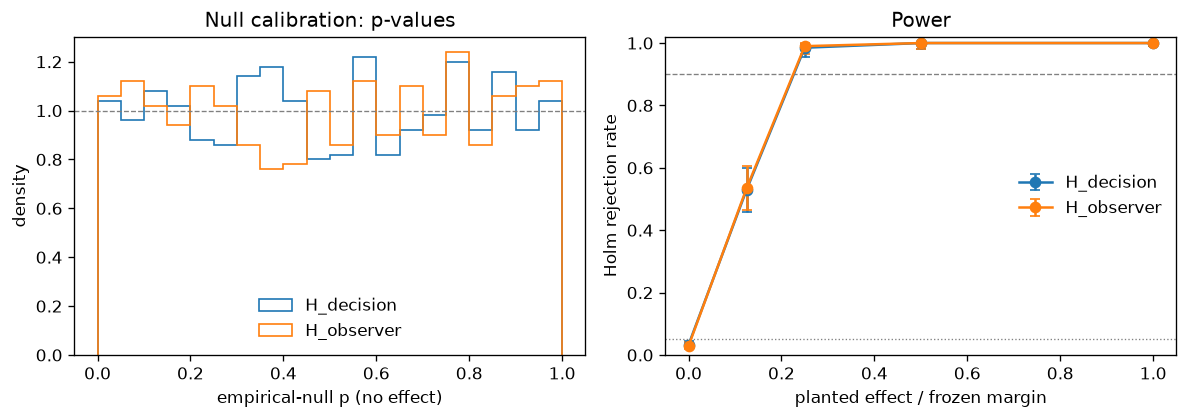
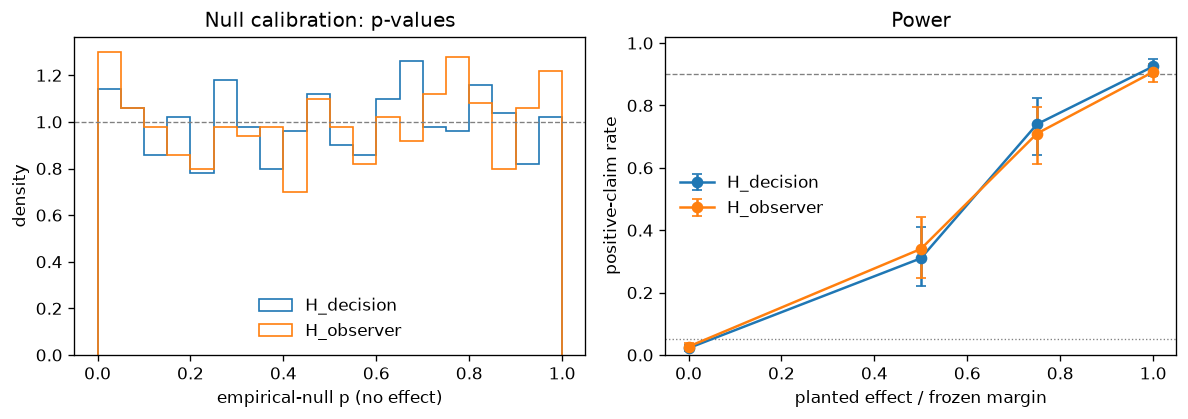
docs/results/prereg-calibration.md: stage-S validation of PREREG-001 v2 (nominal, stress conditions, positive control, engineering test, PASS/FAIL per criterion)
Claude-Session: https://claude.ai/code/session_011moV3EPNNknRWZQ686AChh

diff --git a/docs/results/prereg-calibration.md b/docs/results/prereg-calibration.md
@@ -2,71 +2,156 @@
 
 Stage-S validation of the PREREG-001 pipeline (docs/preregistration/PREREG-001-observer-decision.md). The simulator has no decision or observer effect by construction: these numbers say whether the frozen procedure keeps its false-positive rate and has its planned power, nothing about the hypotheses. Status of the plan: DRAFT (not signed off, not locked).
 
-Every replicate is a complete simulated experiment: offline sequences, a calibration block of 200 valid blocks (seven sealed control arms, slot for slot like a confirmatory block), the frozen calibration (empirical null, margins, N), a confirmatory run of N blocks x 7 arms in a random order per block, sealing of every outcome, arm codes, the frozen blinded analysis (2000 null draws per test), unblinding, the pre-registered cells. T = 100 steps x S = 400 shots per episode; 4 true fields cycled over replicates; slow laser and contrast drift (OU over episode slots), per-step laser jitter. Decision process: the stand-in threshold rule (see the script).
+Every replicate is a complete simulated experiment: offline sequences, a calibration block of 200 valid blocks (seven sealed control arms, slot for slot like a confirmatory block), the frozen calibration (empirical null, margins, theta0_D set, model check), a confirmatory run of N = 100 valid blocks x 7 arms in a random order per block, sealing of every outcome, decoys from the frozen model, the arm-revealing fields sealed with the blinding key, the locked reduction to the episode table, the frozen blinded analysis (2000 null draws per test), unblinding, the complete decision rule. T = 100 steps x S = 400 shots per episode; 4 true fields cycled over replicates; slow laser and contrast drift (OU over episode slots), per-step laser jitter. Decision process: the stand-in threshold rule (see the script).
 
-## Frozen quantities (median over the null replicates, each replicate freezes its own)
+## Frozen quantities (nominal condition; median over the null replicates, each replicate freezes its own)
 
-- Margin (smallest effect size of interest, 0.95 quantile of |control-vs-control pair statistic|): lag 0 (H_observer) 0.01264 [IQR 0.0121-0.01323], lag 1 (H_decision) 0.01264 [0.01205-0.01319] in units of the referenced fluorescence r = N_sig / N_ref.
-- Spin signal of the replayed sequences, C_ref = mean(r_detuned - r_resonant): 0.03111; margins / C_ref: 0.402 (lag 0), 0.401 (lag 1).
-- N (valid confirmatory blocks): [100] (the floor N_MIN = 100; the power rule asks for fewer).
-- theta0_D (selection effect of the decision arm under drift, from 500 model runs): -1.3e-05 +- 3e-05 (MC SE; the plan requires SE <= margin / 10 = 0.00126). The observer contrast of the same runs: -4.95e-06 +- 2.9e-05 (expected 0).
+- Margin rule (section 5): Delta = Q_{1-alpha/2}(|D|) + Q_{0.90}(|D|), D the control-vs-control null of the mean of N = 100 pairs (the shift detected with power 0.95 at Holm's first level).
+- Margin, lag 0 (H_observer): 0.00252 [IQR 0.002377-0.002663]; lag 1 (H_decision): 0.002514 [IQR 0.002386-0.002661], in units of the referenced fluorescence r = N_sig / N_ref.
+- Control-vs-control SD of the mean of N pairs (lag 0): 0.0006505 [IQR 0.0006118-0.0006845]; margin / SD: 3.88.
+- Spin signal of the replayed sequences, C_ref = mean(r_detuned - r_resonant): 0.03119; margin / C_ref: 0.079 (lag 0), 0.080 (lag 1).
+- theta0_D set (model runs, phase `model`, per model and per true field: the model of a run is the model of its sample; the plan requires every SE <= margin / 10 = 0.000251):
+  - nominal (500 runs): theta0_D per field 1.83e-05 +- 5.4e-05, 1.66e-05 +- 6.1e-05, -4.21e-05 +- 6.1e-05, 5.54e-05 +- 5.4e-05; predicted wcorr per field -0.0104, -0.0094, -0.0103, -0.0101.
+  - within_drift (500 runs): theta0_D per field -0.000458 +- 8e-05, -0.000668 +- 9e-05, -0.000323 +- 7.3e-05, -0.000606 +- 9.5e-05; predicted wcorr per field 0.0157, 0.049, 0.0302, 0.0635.
 
-## Null calibration (no effect)
+## Pass criteria (plan section 12)
+
+Each criterion is a rule on the Clopper-Pearson 95 % interval of a rate: an error rate passes when the interval is not above alpha (its lower bound <= alpha), a coverage, power or claim rate when the interval is not below its target (upper bound >= target).
+
+| criterion | rate [95 % interval] | rule | result |
+| --- | --- | --- | --- |
+| nominal: H_decision, p <= 0.05 against the calibration null | 0.057 [0.043, 0.073] (n = 1000) | not above 0.05 | PASS |
+| nominal: H_observer, p <= 0.05 against the calibration null | 0.065 [0.051, 0.082] (n = 1000) | not above 0.05 | FAIL |
+| nominal: primary family, any positive claim (complete rule) | 0.045 [0.033, 0.060] (n = 1000) | not above 0.05 | PASS |
+| nominal: secondary family S1-S3, any Holm rejection | 0.075 [0.059, 0.093] (n = 1000) | not above 0.05 | FAIL |
+| nominal: H_decision 95 % interval covers 0 | 0.942 [0.926, 0.956] (n = 1000) | not below 0.95 | PASS |
+| nominal: H_observer 95 % interval covers 0 | 0.935 [0.918, 0.949] (n = 1000) | not below 0.95 | FAIL |
+| nominal: H_decision null claim | 0.877 [0.855, 0.897] (n = 1000) | not below 0.9 | FAIL |
+| nominal: H_observer null claim | 0.889 [0.868, 0.908] (n = 1000) | not below 0.9 | PASS |
+| nominal: null-stability check flags the run | 0.052 [0.039, 0.068] (n = 1000) | not above 0.05 | PASS |
+| nominal: arm names absent from every blinded output | 1.000 [0.996, 1.000] (n = 1000) | not below 1 | PASS |
+| positive decision, 1 x margin: power of the complete rule | 0.925 [0.895, 0.949] (n = 400) | not below 0.9 | PASS |
+| positive decision, 1 x margin: attributed | 0.890 [0.855, 0.919] (n = 400) | not below 0.9 | PASS |
+| positive decision, 1 x margin: not equivalent | 0.978 [0.958, 0.990] (n = 400) | not below 0.9 | PASS |
+| positive observer, 1 x margin: power of the complete rule | 0.907 [0.875, 0.934] (n = 400) | not below 0.9 | PASS |
+| positive observer, 1 x margin: attributed | 0.875 [0.839, 0.906] (n = 400) | not below 0.9 | PASS |
+| positive observer, 1 x margin: not equivalent | 0.965 [0.942, 0.981] (n = 400) | not below 0.9 | PASS |
+| drift_covered: primary family, any positive claim | 0.033 [0.016, 0.060] (n = 300) | not above 0.05 | PASS |
+| drift_unmodelled: primary family, any positive claim | 0.023 [0.009, 0.047] (n = 300) | not above 0.05 | PASS |
+| nonstationary: primary family, any positive claim | 0.027 [0.012, 0.052] (n = 300) | not above 0.05 | PASS |
+| engineering test, null, normal, two-sided: rejection rate | 0.049 [0.040, 0.059] (n = 2000) | not above 0.05 | PASS |
+| engineering test, null, t3, two-sided: rejection rate | 0.051 [0.042, 0.062] (n = 2000) | not above 0.05 | PASS |
+| engineering test, null, normal, one-sided: rejection rate | 0.046 [0.037, 0.056] (n = 2000) | not above 0.05 | PASS |
+| engineering test, effect = margin, normal, two-sided: power | 0.944 [0.933, 0.954] (n = 2000) | not below 0.9 | PASS |
+| engineering test, effect = margin, normal, one-sided: power | 0.947 [0.936, 0.956] (n = 2000) | not below 0.9 | PASS |
+
+All criteria: FAIL.
+
+## Null calibration (no effect), nominal condition
 
 | quantity | H_decision | H_observer |
 | --- | --- | --- |
-| rejected after Holm (FWER 0.05) | 0.033 [0.023, 0.046] (n = 1000) | 0.029 [0.020, 0.041] (n = 1000) |
-| p <= 0.05 without correction | 0.052 [0.039, 0.068] (n = 1000) | 0.053 [0.040, 0.069] (n = 1000) |
-| TOST equivalent at the frozen margin | 1.000 [0.996, 1.000] (n = 1000) | 1.000 [0.996, 1.000] (n = 1000) |
-| 95 % interval covers 0 | 0.948 [0.932, 0.961] (n = 1000) | 0.947 [0.931, 0.960] (n = 1000) |
-| Newey-West check, p <= 0.05 | 0.055 [0.042, 0.071] (n = 1000) | 0.077 [0.061, 0.095] (n = 1000) |
+| positive claim (complete rule) | 0.022 [0.014, 0.033] (n = 1000) | 0.027 [0.018, 0.039] (n = 1000) |
+| Holm rejection against the calibration null alone | 0.026 [0.017, 0.038] (n = 1000) | 0.040 [0.029, 0.054] (n = 1000) |
+| p <= 0.05 against the calibration null (uncorrected) | 0.057 [0.043, 0.073] (n = 1000) | 0.065 [0.051, 0.082] (n = 1000) |
+| TOST equivalent at the frozen margin | 0.930 [0.912, 0.945] (n = 1000) | 0.930 [0.912, 0.945] (n = 1000) |
+| null claim (equivalent, stable null; H_decision: model check) | 0.877 [0.855, 0.897] (n = 1000) | 0.889 [0.868, 0.908] (n = 1000) |
+| 95 % interval covers 0 | 0.942 [0.926, 0.956] (n = 1000) | 0.935 [0.918, 0.949] (n = 1000) |
+| Newey-West check, p <= 0.05 | 0.059 [0.045, 0.075] (n = 1000) | 0.076 [0.060, 0.094] (n = 1000) |
 
-- Primary family, any Holm rejection: 0.056 [0.043, 0.072] (n = 1000).
-- Secondary family without the quantum test (S1-S3), any Holm rejection: 0.058 [0.044, 0.074] (n = 1000); the quantum test S4 (detuned vs resonant task error) rejects in 1.000 [0.996, 1.000] (n = 1000).
-- Null-stability check flags the run (confirmatory controls differ from the calibration controls): 0.038 [0.027, 0.052] (n = 1000) (designed rate <= 0.05).
-- Arm names absent from every blinded output: True.
+- Model check passed: calibration block 0.995 [0.988, 0.998] (n = 1000), confirmatory sealed controls 0.996 [0.990, 0.999] (n = 1000).
+- The quantum test S4 (detuned vs resonant task error) rejects in 1.000 [0.996, 1.000] (n = 1000).
+
+## Stress conditions (no effect)
+
+| condition | what differs | positive claim, H_decision | positive claim, H_observer | H_decision p <= 0.05 (calibration null alone) | H_observer p <= 0.05 (calibration null alone) | model check passed (both) | null stable |
+| --- | --- | --- | --- | --- | --- | --- | --- |
+| drift_covered | within-episode contrast drift (sd 0.3, rho 0.9 per step), in the model set | 0.020 [0.007, 0.043] (n = 300) | 0.027 [0.012, 0.052] (n = 300) | 0.037 [0.018, 0.065] (n = 300) | 0.063 [0.039, 0.097] (n = 300) | 0.987 [0.966, 0.996] (n = 300) | 0.940 [0.907, 0.964] (n = 300) |
+| drift_unmodelled | the same drift, missing from the model set | 0.000 [0.000, 0.012] (n = 300) | 0.023 [0.009, 0.047] (n = 300) | 0.087 [0.057, 0.124] (n = 300) | 0.043 [0.023, 0.073] (n = 300) | 0.000 [0.000, 0.012] (n = 300) | 0.933 [0.899, 0.959] (n = 300) |
+| nonstationary | confirmatory drift 3x larger and 3x faster than in the calibration block | 0.003 [0.000, 0.018] (n = 300) | 0.023 [0.009, 0.047] (n = 300) | 0.050 [0.028, 0.081] (n = 300) | 0.073 [0.047, 0.109] (n = 300) | 0.980 [0.957, 0.993] (n = 300) | 0.803 [0.754, 0.847] (n = 300) |
 
 ## Positive control (effect planted in the simulated device)
 
-Decision: E[r] of the decision arm A1 shifted by the size. Observer: E[r] of every observed arm (A1, A2, A4, A5) shifted, the sealed arms not. Size = the replicate's own frozen margin, or a fraction of it (power curve).
+Decision: E[r] of the decision arm A1 shifted by the size. Observer: E[r] of every observed arm (A1, A2, A4, A5) shifted, the sealed arms not. Size = the replicate's own frozen margin, or a fraction of it (power curve: no pass criterion).
 
-| planted | size | power (Holm rejection of the planted hypothesis) | attributed (planted rejected, other not) | not equivalent |
+| planted | size | power (complete rule) | attributed (planted rejected, other not) | not equivalent |
 | --- | --- | --- | --- | --- |
-| decision | 1 x margin | 1.000 [0.991, 1.000] (n = 400) | 0.948 [0.921, 0.967] (n = 400) | 0.990 [0.975, 0.997] (n = 400) |
-| decision | 0.5 x margin | 1.000 [0.982, 1.000] (n = 200) | 0.955 [0.916, 0.979] (n = 200) | 0.000 [0.000, 0.018] (n = 200) |
-| decision | 0.25 x margin | 0.985 [0.957, 0.997] (n = 200) | 0.910 [0.861, 0.946] (n = 200) | 0.000 [0.000, 0.018] (n = 200) |
-| decision | 0.125 x margin | 0.530 [0.458, 0.601] (n = 200) | 0.495 [0.424, 0.566] (n = 200) | 0.000 [0.000, 0.018] (n = 200) |
-| observer | 1 x margin | 1.000 [0.991, 1.000] (n = 400) | 0.945 [0.918, 0.965] (n = 400) | 0.973 [0.951, 0.986] (n = 400) |
-| observer | 0.5 x margin | 1.000 [0.982, 1.000] (n = 200) | 0.950 [0.910, 0.976] (n = 200) | 0.000 [0.000, 0.018] (n = 200) |
-| observer | 0.25 x margin | 0.990 [0.964, 0.999] (n = 200) | 0.955 [0.916, 0.979] (n = 200) | 0.000 [0.000, 0.018] (n = 200) |
-| observer | 0.125 x margin | 0.535 [0.463, 0.606] (n = 200) | 0.505 [0.434, 0.576] (n = 200) | 0.000 [0.000, 0.018] (n = 200) |
+| decision | 1 x margin | 0.925 [0.895, 0.949] (n = 400) | 0.890 [0.855, 0.919] (n = 400) | 0.978 [0.958, 0.990] (n = 400) |
+| decision | 0.5 x margin | 0.310 [0.221, 0.410] (n = 100) | 0.290 [0.204, 0.389] (n = 100) | 0.480 [0.379, 0.582] (n = 100) |
+| decision | 0.75 x margin | 0.740 [0.643, 0.823] (n = 100) | 0.730 [0.632, 0.814] (n = 100) | 0.830 [0.742, 0.898] (n = 100) |
+| observer | 1 x margin | 0.907 [0.875, 0.934] (n = 400) | 0.875 [0.839, 0.906] (n = 400) | 0.965 [0.942, 0.981] (n = 400) |
+| observer | 0.5 x margin | 0.340 [0.248, 0.442] (n = 100) | 0.310 [0.221, 0.410] (n = 100) | 0.520 [0.418, 0.621] (n = 100) |
+| observer | 0.75 x margin | 0.710 [0.611, 0.796] (n = 100) | 0.700 [0.600, 0.788] (n = 100) | 0.840 [0.753, 0.906] (n = 100) |
+
+## Engineering comparisons (M7 E-1 / E-2, E5): `paired_margin_test` at its fixed sizes (20 pairs, 20 control repeats)
+
+| condition | rejection rate | TOST equivalent | median margin (units of the diff SD) |
+| --- | --- | --- | --- |
+| null, normal, two-sided | 0.049 [0.040, 0.059] (n = 2000) | 0.885 [0.870, 0.899] (n = 2000) | 1.19 |
+| null, t3, two-sided | 0.051 [0.042, 0.062] (n = 2000) | 0.803 [0.785, 0.820] (n = 2000) | 1.72 |
+| null, normal, one-sided | 0.046 [0.037, 0.056] (n = 2000) | 0.807 [0.789, 0.824] (n = 2000) | 1.09 |
+| effect = margin, normal, two-sided | 0.944 [0.933, 0.954] (n = 2000) | 0.024 [0.018, 0.032] (n = 2000) | 1.18 |
+| effect = margin, normal, one-sided | 0.947 [0.936, 0.956] (n = 2000) | 0.026 [0.019, 0.034] (n = 2000) | 1.07 |
 
 ## Reading
 
-- Pass criteria of the plan: false-positive rate per hypothesis within the binomial interval of 0.05 (Holm makes it at most 0.05); TOST equivalence >= 0.90 under the null; power >= 0.90 and non-equivalence >= 0.90 at the margin; correct attribution. The rows below 1 x margin are the power curve only (no pass criterion): they show how far below the margin the plan still detects an effect (the margin governs the equivalence claims and the power target).
+- The margin is derived from the control runs by a fixed rule: the effect that the planned experiment detects against the control-vs-control distribution with power 0.95 at Holm's first level. It replaces the earlier rule (the 0.95 quantile of a single control pair), which made the margin about 40 % of the spin signal and its equivalence claims trivially easy.
+- A positive claim needs a Holm rejection against the frozen calibration controls and against the run's own sealed controls; the nonstationary condition shows why (the calibration null alone is too narrow when the confirmatory run drifts more).
+- H_decision depends on a model of the selection effect. The drift_unmodelled condition (within-episode drift missing from the model set) shows the calibration null alone rejecting too often, and the model check refusing H_decision instead. In drift_covered the same drift is in the model set: theta0_D is non-zero and the worst-case test keeps its level.
 - The Newey-West robustness check is liberal at N = 100 (above 0.05 in the null), one reason it is not the decisive test.
-- The calibration block mirrors the confirmatory block slot for slot. A first version of this validation used a 4-arm calibration block: its paired controls were closer in time than the 7-arm confirmatory pairs, saw less drift, and the test was liberal (H_decision p <= 0.05 in 0.070 [0.055, 0.088] of 1000 null replicates, 95 % coverage 0.930). The control runs must share the confirmatory schedule, not only its arms.
-- One sealing key per batch of replicates instead of one per replicate (speed); every outcome is still sealed and unsealed through the same code. Blinding keys and order seeds are per replicate.
-- The stand-in decision process is not the M5 policy, and theta0_D depends on the policy. The command below is the full size with the stand-in (R = 2000 null replicates; the null phase takes about twice as long as here). With the real policy the decision process is a Controller (glowbox.analysis.arms) wrapping the M5 policy over its posterior, run on the GPU machine; that adapter belongs to M7, and its theta0_D is the one to freeze.
+- One sealing key and one meta-sealing key per batch of replicates instead of per replicate (speed); every outcome is still sealed and unsealed through the same code. Blinding keys and order seeds are per replicate.
+- The stand-in decision process is not the M5 policy, and theta0_D depends on the policy: the M5 policy as a Controller (glowbox.analysis.arms) is M7's adapter, with its own model runs and this validation repeated.
 
-    uv run python -m glowbox.experiments.prereg_calibration --replicates 2000
+Run sizes here (CPU): nominal 1000, drift_covered 300, drift_unmodelled 300, nonstationary 300 null replicates; positive 400 per hypothesis; curve 100 per fraction; 500 model runs per model; engineering 2000 per condition. The documented full size (several hours on this CPU; any machine, no GPU needed):
 
-Wall time here: 13.7 min on a CPU.
+    uv run python -m glowbox.experiments.prereg_calibration --replicates 4000 --stress-replicates 1000
+
+Wall time here: 17.6 min on a CPU.
 
 ![calibration](figures/prereg-calibration-calibration.png)
 
 ## Provenance
 
-- run id: `20261127-084033-prereg-001-calibration-a74f`
-- git: `5ea2e41abe285a1ee08ff3ceeb3fa8ac04ff9fbd`
+- run id: `20261127-100225-prereg-001-calibration-a8f4`
+- git: `feb71252c5a5e901e5b808279bdb835f2a1ee5fe`
 - seed: 20261127
 - device: cpu
 - python 3.12.3, glowbox 0.1.0, torch 2.11.0+cu128, qutip 5.3.1, numpy 2.5.5, scipy 1.18.1, pyarrow 26.0.1
-- started 2026-11-27T08:40:33+00:00, finished 2026-11-27T08:54:17+00:00
+- started 2026-11-27T10:02:25+00:00, finished 2026-11-27T10:20:04+00:00
 
 ## Config
 
 ```yaml
+conditions:
+  drift_covered:
+    description: within-episode contrast drift (sd 0.3, rho 0.9 per step), in the
+      model set
+    device:
+      within_rho: 0.9
+      within_sigma: 0.3
+    models:
+    - within_drift
+  drift_unmodelled:
+    description: the same drift, missing from the model set
+    device:
+      within_rho: 0.9
+      within_sigma: 0.3
+    models:
+    - nominal
+  nominal:
+    description: device = the nominal model
+    models:
+    - nominal
+  nonstationary:
+    confirmatory:
+      contrast_rel_sigma: 0.15
+      contrast_tau_slots: 23.3
+      laser_rel_sigma: 0.06
+      laser_tau_slots: 6.67
+    description: confirmatory drift 3x larger and 3x faster than in the calibration
+      block
+    models:
+    - nominal
 controller:
   coarse_step: 4
   fine_step: 1
@@ -86,6 +171,11 @@ measurement:
   - 300
   - 1700
   - 300
+models:
+  nominal: {}
+  within_drift:
+    within_rho: 0.9
+    within_sigma: 0.3
 name: prereg-001-calibration
 nuisance:
   contrast_rel_sigma: 0.05
@@ -93,50 +183,47 @@ nuisance:
   laser_jitter_rel: 0.01
   laser_rel_sigma: 0.02
   laser_tau_slots: 20
+  within_rho: 0.0
+  within_sigma: 0.0
 numerics:
   detuning_rule: uniform
   detuning_spacing: 2.0
   n_detuning: 8
-off_line_widths: 3.0
 prior:
   b_max_t: 0.003
   b_min_t: 0.0005
 protocol:
   n_steps: 100
   shots: 400
-reference_window: 2
 replicates:
   batch: 500
-  curve: 200
+  curve: 100
   curve_fractions:
   - 0.5
-  - 0.25
-  - 0.125
+  - 0.75
+  engineering: 2000
+  model_runs: 500
   n_boot: 2000
   null_runs: 1000
   positive: 400
-  theta0: 500
+  stress_runs: 300
   workers: 8
 seed: 20261127
-signal_window: 0
 ```
 
 ## Final metrics
 
 | metric | value |
 | --- | --- |
-| fpr_decision | 0.033 |
-| fpr_observer | 0.029 |
-| fwer_primary | 0.056 |
-| margin_lag0_median | 0.0126388 |
-| margin_lag1_median | 0.0126441 |
-| theta0_d | -1.30012e-05 |
-| theta0_d_se | 2.99913e-05 |
-| power_decision_1 | 1 |
-| power_decision_0.5 | 1 |
-| power_decision_0.25 | 0.985 |
-| power_decision_0.125 | 0.53 |
-| power_observer_1 | 1 |
-| power_observer_0.5 | 1 |
-| power_observer_0.25 | 0.99 |
-| power_observer_0.125 | 0.535 |
+| fwer_primary_nominal | 0.045 |
+| margin_lag0_median | 0.00252014 |
+| margin_lag1_median | 0.00251381 |
+| margin_over_c_ref_lag0 | 0.0791802 |
+| criteria_passed | 20 |
+| criteria_total | 24 |
+| power_decision_1 | 0.925 |
+| power_decision_0.5 | 0.31 |
+| power_decision_0.75 | 0.74 |
+| power_observer_1 | 0.9075 |
+| power_observer_0.5 | 0.34 |
+| power_observer_0.75 | 0.71 |
